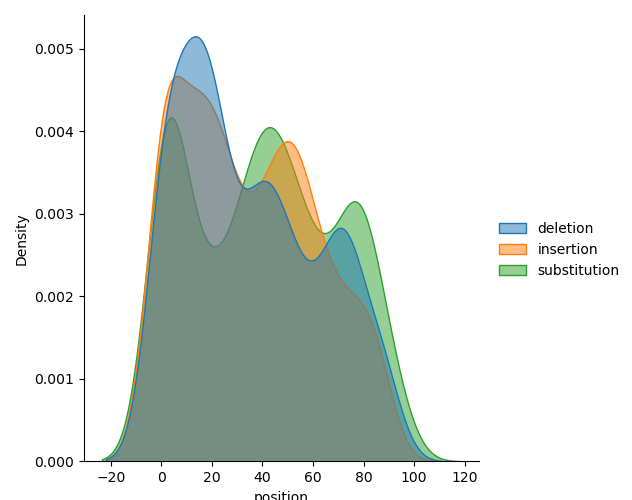
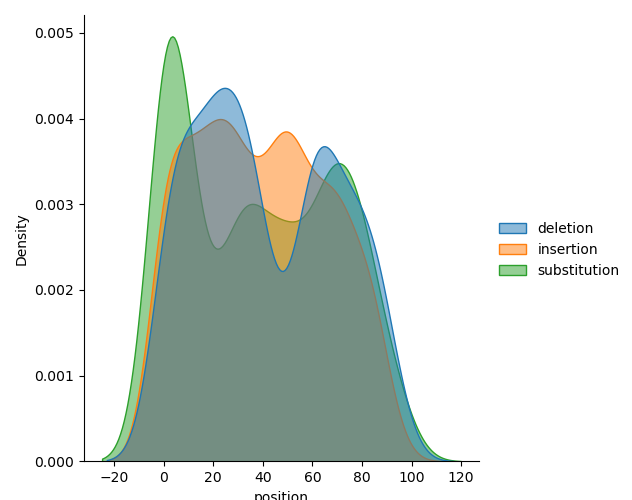
updated readme

diff --git a/readme.md b/readme.md
@@ -36,7 +36,7 @@ We can see from this plot that standard deviation and variance are highly correl
 - More feature extraction methods can be used to extract more features from the signals
 - Explore median filter and other smoothing techniques to remove outliers
 ## DNA sequence analysis
-3 sets of DNA sequences of different error rates were generated and analysed
+In this task we will create first create template DNA sequence of 100 base pairs and 60% GC content. We will then generate 100 complimentary DNA sequence and introduce errors in the sequences at different error rates. The error types are substitution, insertion and deletion. The error positions are randomly generated. The error rates are 1%, 5% and 10%. The DNA sequences are then analysed to determine the error position distribution, sequence length distribution and GC content distribution. 
 
 ### The error position distribution per error type for 10% error rate.
 ![Error distribution](images/error_distribution.png)
